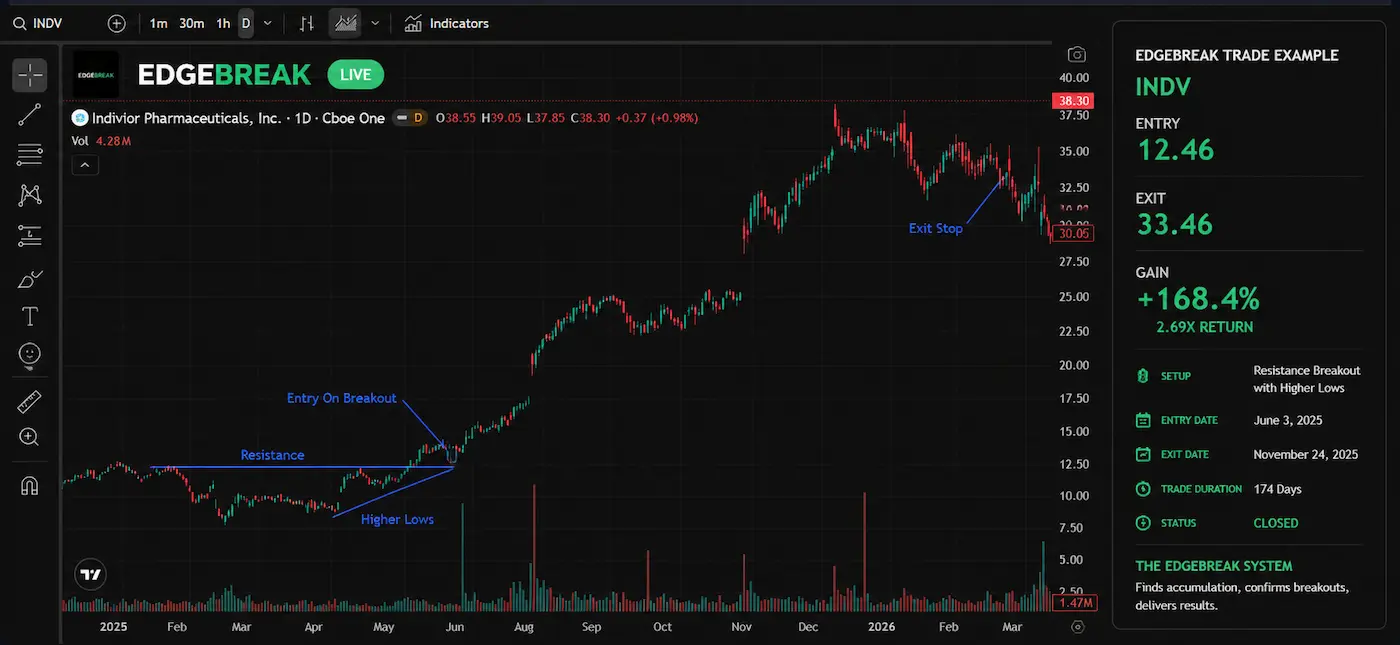
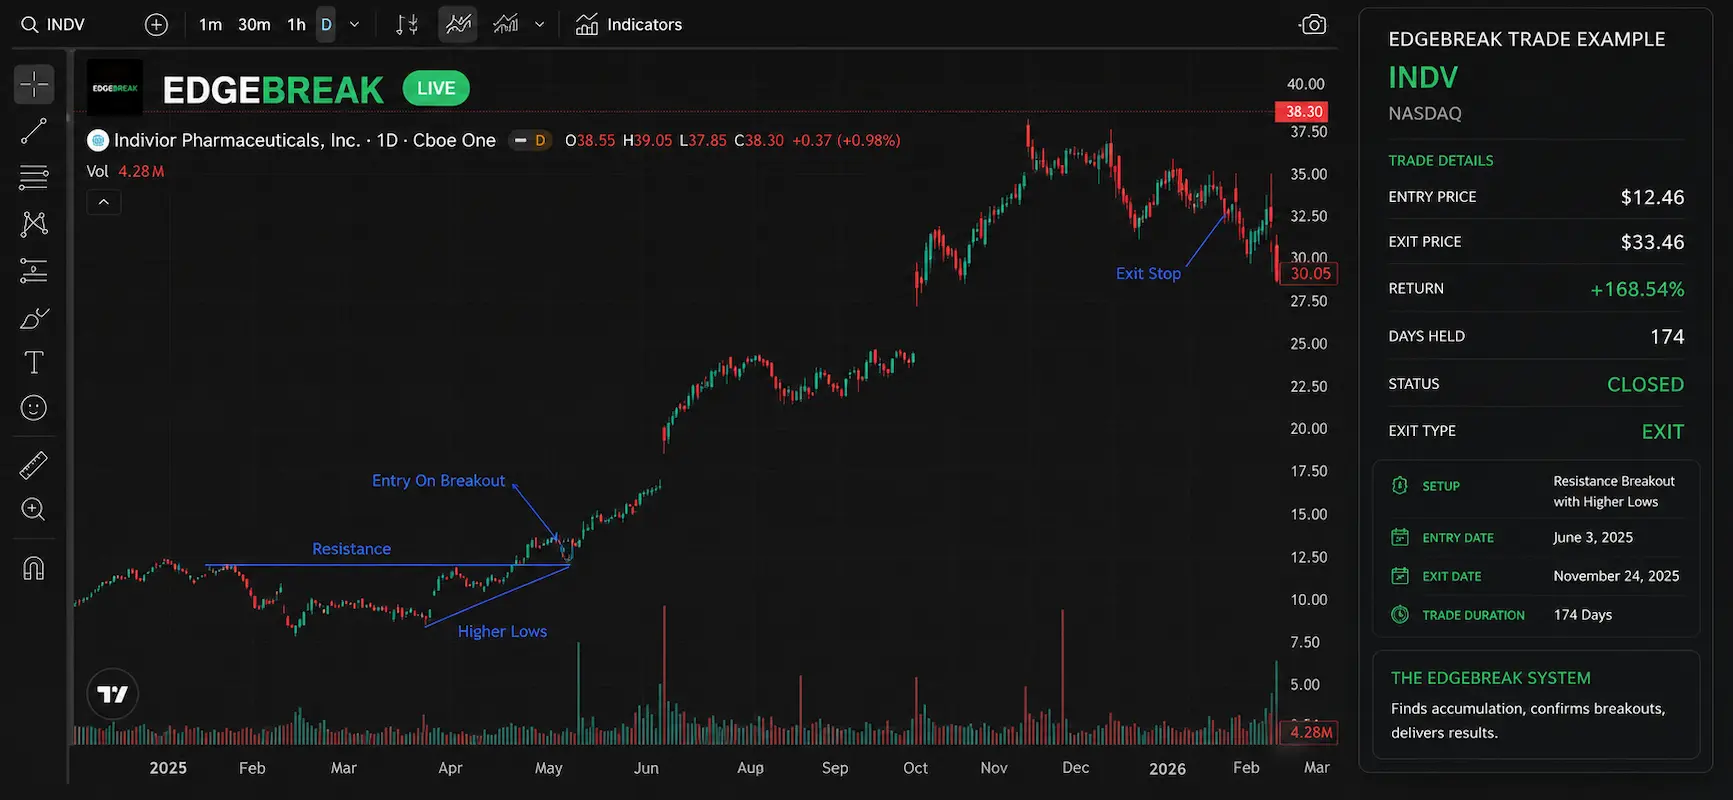
image fix

diff --git a/index.html b/index.html
@@ -882,7 +882,7 @@ PLATFORM OVERVIEW
 
     <!-- EDGEBREAK TRADES -->
 
-    <a href="edgebreak-trades.html" class="stat">
+    <a href="watchlist.html" class="stat">
 
         <svg class="feature-icon"
              viewBox="0 0 24 24"